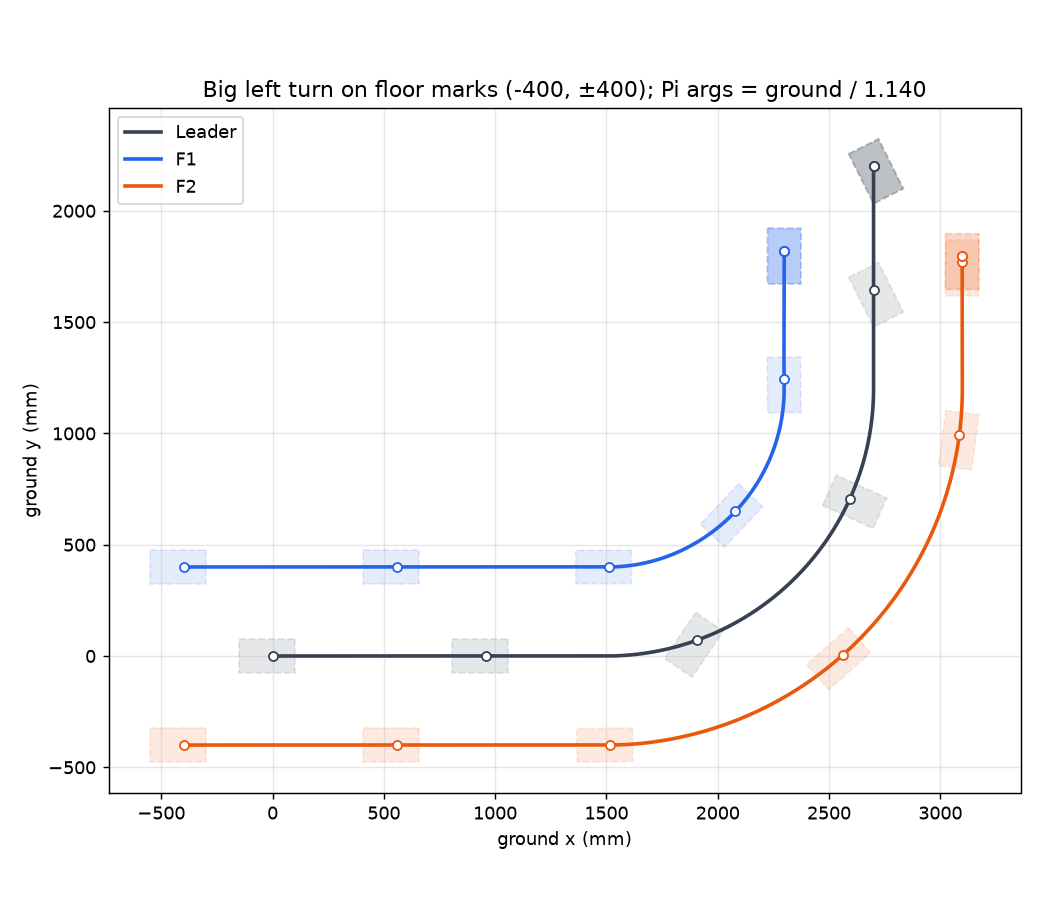
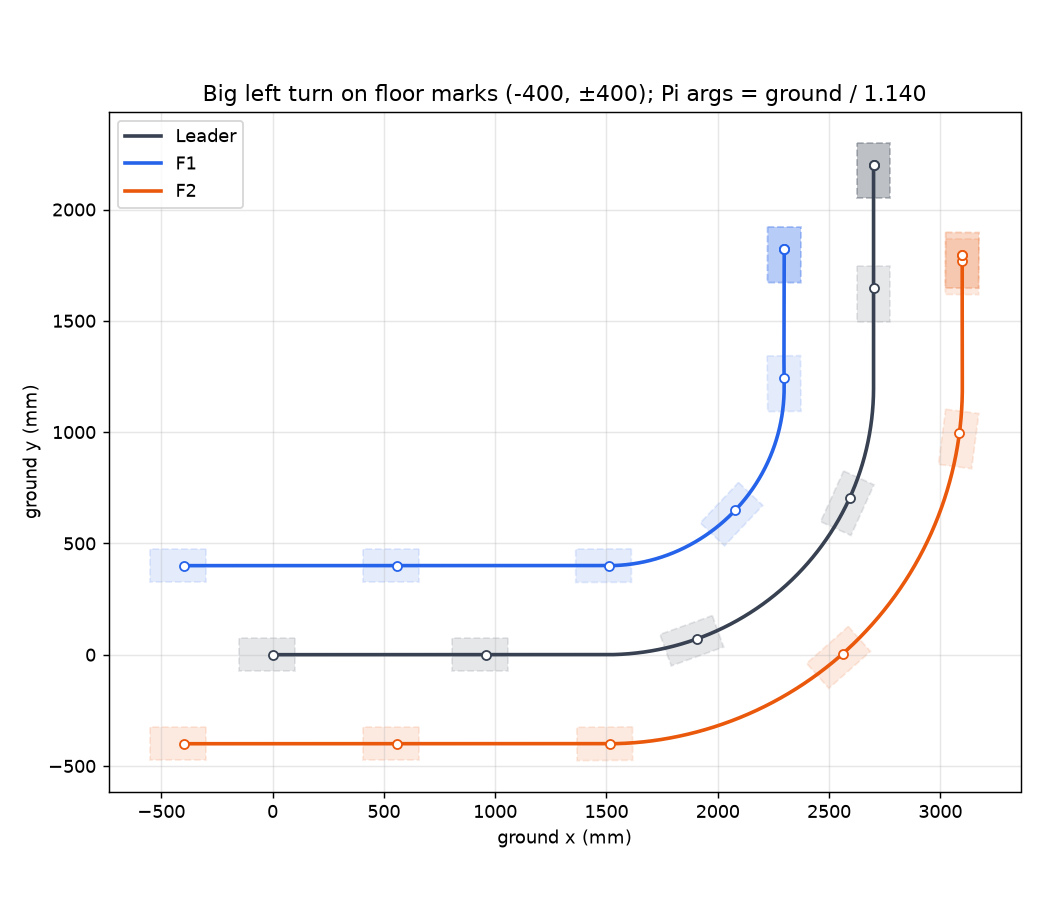
Size left-turn formation candidates to the lab floor
Simulate R800 turns that fit a 2 m x 1.2 m area with the live follower
controller, and fix a double degree conversion of the Leader heading in
both turn simulators (body gaps only; MPU distances unchanged).

diff --git a/analysis/2026-11-18-left-turn-site/simulate_site.py b/analysis/2026-11-18-left-turn-site/simulate_site.py
@@ -1,0 +1,157 @@
+#!/usr/bin/env python3
+"""Offline left-turn candidate sized for the lab floor (2026-11-18).
+
+Firmware now reports ground mm, so Pi arguments equal floor dimensions.  The
+live PathFormationTracker drives ideal differential-drive followers; the
+Leader follows its plan exactly.  Site box: forward x <= 2000 mm and left
+y <= 1200 mm, both measured from the Leader start MPU mark (assumption to be
+confirmed by the operator).  No USB, no UDP.
+"""
+from __future__ import annotations
+
+import argparse
+import json
+import math
+import sys
+from dataclasses import replace
+from pathlib import Path
+
+import matplotlib
+matplotlib.use("Agg")
+import matplotlib.pyplot as plt
+import numpy as np
+
+HERE = Path(__file__).resolve().parent
+ROOT = HERE.parents[1]
+sys.path.insert(0, str(ROOT / "pi_rover"))
+sys.path.insert(0, str(ROOT / "analysis" / "2026-10-29-f1-f2-theory"))
+
+from follower_formation import FormationPlan, LeaderFrame, PathFormationTracker  # noqa: E402
+from simulate_formation import status, step_rover  # noqa: E402
+from turn_path import TurnPath, TurnPathReference  # noqa: E402
+
+BODY = np.array([[100, 75], [100, -75], [-150, -75], [-150, 75]], float)
+COLORS = {"L": "#374151", "F1": "#2563eb", "F2": "#ea580c"}
+DT = 0.1
+
+
+def corners(x, y, h_deg):
+    h = math.radians(h_deg)
+    rot = np.array([[math.cos(h), -math.sin(h)], [math.sin(h), math.cos(h)]])
+    return BODY @ rot.T + [x, y]
+
+
+def edge_points(p, n=12):
+    c = corners(*p)
+    return np.array([a + (b - a) * t for a, b in zip(c, np.roll(c, -1, 0))
+                     for t in np.linspace(0, 1, n, endpoint=False)])
+
+
+def gap(p, q):
+    a, b = edge_points(p), edge_points(q)
+    return float(np.min(np.linalg.norm(a[:, None] - b[None], axis=2)))
+
+
+def main() -> None:
+    ap = argparse.ArgumentParser()
+    ap.add_argument("--straight", type=float, default=600.0)
+    ap.add_argument("--radius", type=float, default=800.0)
+    ap.add_argument("--exit", type=float, default=300.0)
+    ap.add_argument("--speed", type=float, default=30.0)
+    ap.add_argument("--lag", type=float, default=400.0)
+    ap.add_argument("--lane", type=float, default=400.0)
+    ap.add_argument("--site-x", type=float, default=2000.0)
+    ap.add_argument("--site-left", type=float, default=1200.0)
+    ap.add_argument("--name", default="candidate")
+    a = ap.parse_args()
+
+    key = TurnPathReference(a.straight, a.radius, a.exit, 0, 0, 0)
+    path = TurnPath(key)
+    arc = a.radius * math.pi / 2
+    end = a.straight + arc + a.exit
+    end_t = end / a.speed
+    lanes = {"F1": a.lane, "F2": -a.lane}
+    trackers = {n: PathFormationTracker(FormationPlan(
+        offset_x_mm=-a.lag, offset_y_mm=l, follower_start_x_mm=-a.lag,
+        follower_start_y_mm=l)) for n, l in lanes.items()}
+    local = {n: status() for n in lanes}
+    stops: dict[str, str] = {}
+    rows = []
+    for k in range(int(end_t / DT) + 1):
+        t = k * DT
+        s = min(a.speed * t, end)
+        lx, ly, lh, _ = path.pose_at_s(s, 0.0)
+        yaw = a.speed / a.radius if a.straight < s < a.straight + arc else 0.0
+        frame = LeaderFrame(status=status(lx, ly, lh), received_monotonic_s=t,
+                            source_host="offline", forward_mm_per_second=a.speed,
+                            yaw_rate_radians_per_second=yaw, has_motion_reference=True,
+                            formation_phase="moving", path=replace(key, progress_s_mm=s))
+        row = {"t": t, "L": (lx, ly, lh)}
+        for n, lane in lanes.items():
+            st = local[n]
+            row[n] = (st.x_mm - a.lag, st.y_mm + lane, st.heading_deg)
+            if n in stops:
+                continue
+            c = trackers[n].control(frame, st)
+            if not c.tracking_safe:
+                stops[n] = f"t={t:.1f}s {c.stop_reason}"
+                continue
+            row[n + "_cmd"] = (c.left_mm_per_second, c.right_mm_per_second)
+            local[n] = step_rover(st, c.left_mm_per_second, c.right_mm_per_second, DT,
+                                  trackers[n].plan.wheel_track_mm)
+        rows.append(row)
+
+    # Leader stops -> followers stop on the `stopped` frame: final poses = last row.
+    pts = np.vstack([corners(*r[n]) for r in rows for n in ("L", "F1", "F2")])
+    pairs = {"Leader-F1": ("L", "F1"), "Leader-F2": ("L", "F2"), "F1-F2": ("F1", "F2")}
+    summary = {
+        "pi_args": {"straight_mm": a.straight, "radius_mm": a.radius, "exit_mm": a.exit,
+                    "leader_speed_mm_s": a.speed, "follower_offset_x_mm": -a.lag,
+                    "follower_lane_mm": a.lane},
+        "leader_route_mm": round(end, 1), "moving_s": round(end_t, 1),
+        "controller_stops": stops,
+        "body_extent_mm": {"x_min": round(pts[:, 0].min()), "x_max": round(pts[:, 0].max()),
+                           "y_min": round(pts[:, 1].min()), "y_max": round(pts[:, 1].max())},
+        "final_heading_deg": {n: round(rows[-1][n][2], 1) for n in ("L", "F1", "F2")},
+    }
+    for name, (p, q) in pairs.items():
+        summary[name] = {"min_mpu_mm": round(min(math.dist(r[p][:2], r[q][:2]) for r in rows)),
+                         "min_body_gap_mm": round(min(gap(r[p], r[q]) for r in rows[::5]))}
+    for n in lanes:
+        cmds = [r[n + "_cmd"] for r in rows if n + "_cmd" in r]
+        summary[n + "_wheel_cmd_mm_s"] = [min(min(c) for c in cmds), max(max(c) for c in cmds)]
+    (HERE / f"{a.name}.json").write_text(json.dumps(summary, indent=2, ensure_ascii=False) + "\n")
+    print(json.dumps(summary, indent=2, ensure_ascii=False))
+
+    fig, ax = plt.subplots(figsize=(8.5, 7))
+    ax.add_patch(plt.Rectangle((-700, -700), a.site_x + 700, a.site_left + 700, fill=False,
+                               ec="#b91c1c", lw=1.5, ls="--"))
+    ax.text(a.site_x - 20, a.site_left - 40, f"site limit\nx ≤ {a.site_x:.0f}, y ≤ {a.site_left:.0f}",
+            color="#b91c1c", ha="right", va="top", fontsize=9)
+    labels = {"L": "Leader", "F1": "F1", "F2": "F2"}
+    for key_, col in COLORS.items():
+        xy = np.array([r[key_][:2] for r in rows])
+        ax.plot(xy[:, 0], xy[:, 1], color=col, lw=2, label=labels[key_])
+        snaps = [rows[0], rows[len(rows) // 3], rows[2 * len(rows) // 3], rows[-1]]
+        for i, r in enumerate(snaps):
+            c = corners(*r[key_])
+            ax.fill(c[:, 0], c[:, 1], color=col, alpha=0.28 if i == 3 else 0.10, lw=0)
+            ax.plot(*np.vstack([c, c[:1]]).T, "--", color=col, lw=0.8)
+            ax.plot(c[:2, 0], c[:2, 1], "-", color=col, lw=1.8)
+            ax.plot(*r[key_][:2], "o", mfc="white", mec=col, ms=5)
+            if i in (1, 2) and key_ == "L":
+                ax.annotate(f"t={r['t']:.0f}s", r[key_][:2], xytext=(6, -12),
+                            textcoords="offset points", fontsize=8, color=col)
+    ax.set_aspect("equal")
+    ax.grid(alpha=0.3)
+    ax.set_xlabel("forward x (mm, floor)")
+    ax.set_ylabel("left y (mm, floor)")
+    ax.set_title(f"Left turn: straight {a.straight:.0f}, R {a.radius:.0f}, exit {a.exit:.0f} mm; "
+                 f"Leader {a.speed:.0f} mm/s")
+    ax.legend(loc="lower right")
+    fig.tight_layout()
+    fig.savefig(HERE / f"{a.name}.png", dpi=130)
+
+
+if __name__ == "__main__":
+    main()

diff --git a/analysis/2026-11-18-left-turn-scaled/simulate_scaled.py b/analysis/2026-11-18-left-turn-scaled/simulate_scaled.py
@@ -72,12 +72,12 @@ def main() -> None:
         lx, ly, lh, _ = path.pose_at_s(s, 0.0)
         speed = LEADER_SPEED if t < end_t else 0.0
         yaw = LEADER_SPEED / ODOM["radius"] if ODOM["straight"] < s < ODOM["straight"] + arc else 0.0
-        frame = LeaderFrame(status=status(lx, ly, math.degrees(lh)), received_monotonic_s=t,
+        frame = LeaderFrame(status=status(lx, ly, lh), received_monotonic_s=t,
                             source_host="offline", forward_mm_per_second=speed,
                             yaw_rate_radians_per_second=yaw, has_motion_reference=True,
                             formation_phase="moving" if speed else "settle",
                             path=replace(key, progress_s_mm=s))
-        row = {"t": t, "L": (lx, ly, math.degrees(lh))}
+        row = {"t": t, "L": (lx, ly, lh)}
         for n, lane in lanes.items():
             st = local[n]
             row[n] = (st.x_mm - ODOM["lag"], st.y_mm + lane, st.heading_deg)

diff --git a/analysis/2026-11-18-left-turn-site/README.md b/analysis/2026-11-18-left-turn-site/README.md
@@ -1,0 +1,18 @@
+# 場地內的三車左轉候選（2026-11-18，離線，尚未跑）
+
+場地：操作者說「前 2 m、左 1.2 m」，**暫定**都從 Leader 起點 MPU 標記量起（待操作者確認）。
+起點標記：Leader (0,0)，F1 (−400,+400)，F2 (−400,−400) mm。韌體已把里程換成地面 mm，
+所以 Pi 參數就是地面尺寸。`turn_path.py` 限制：左轉固定 90°、半徑 800–5000、出彎 ≥ 200 mm。
+
+[simulate_site.py](simulate_site.py) 用現行 `PathFormationTracker`＋理想差速模型；Leader 停下時 Follower 也停。
+
+| 候選 | 直線／半徑／出彎 | Leader 路程／時間 | 車身範圍 x／y | Follower 終點航向 | 最小 MPU 距離 L–F1／L–F2 | 最小車身間隙 L–F1／L–F2 | Follower 輪速命令 |
+|---|---|---|---|---|---|---|---|
+| A | 600／800／300 | 2157 mm／71.9 s | −550…1878／−484…**1197** | 82.6°／82.7° | 487／566 | 247／287 | F1 12–30、F2 30–48 |
+| B | 600／800／200 | 2057 mm／68.6 s | −550…1860／−484…1098 | 75.5°／75.6° | 487／566 | 247／287 | 同上 |
+
+- A 的左側離 1200 邊界只剩 3 mm；B 留 10 cm，但 Follower 停在彎道 75° 左右（Leader 停時它們還落後 400 mm）。
+- 半徑 800、左右 ±400 的幾何和 11/12 那趟接觸的縮小左轉相同；那次的主因（速度特性不一致、里程比例）
+  已在今天修正，但仍只有理想模型，不是安全證明。F1 內輪最低命令 12 mm/s，落在新前饋的外插區。
+- 修正：本資料夾與 `../2026-11-18-left-turn-scaled/simulate_scaled.py` 原本把 `pose_at_s` 已是「度」的航向再
+  `math.degrees` 一次；已更正並重跑。

diff --git a/analysis/2026-11-18-left-turn-scaled/README.md b/analysis/2026-11-18-left-turn-scaled/README.md
@@ -14,7 +14,7 @@
 [simulate_scaled.py](simulate_scaled.py) 用現行 `PathFormationTracker` 加理想差速模型，
 得到 [scaled_turn.png](scaled_turn.png) 與 [summary.json](summary.json)：沒有安全停止；
 地面最小 MPU 距離 Leader–F1／Leader–F2／F1–F2 為 514／566／799 mm，
-車身外框間隙 222／277／638 mm；F2 外圈會碰到 75 mm/s 輪速上限。
+車身外框間隙 263／288／638 mm（11/18 修正：原本把已是「度」的 Leader 航向又轉一次，外框畫錯，曾誤寫 222／277；MPU 距離與 Follower 命令不受影響）；F2 外圈會碰到 75 mm/s 輪速上限。
 這個模型**沒有馬達動態**，也沒有反映三台韌體的速度特性不同。
 
 **設計錯誤：** 這條路線地面上約需 3.9 m 的前進距離，實驗室直線只有約 2 m。
